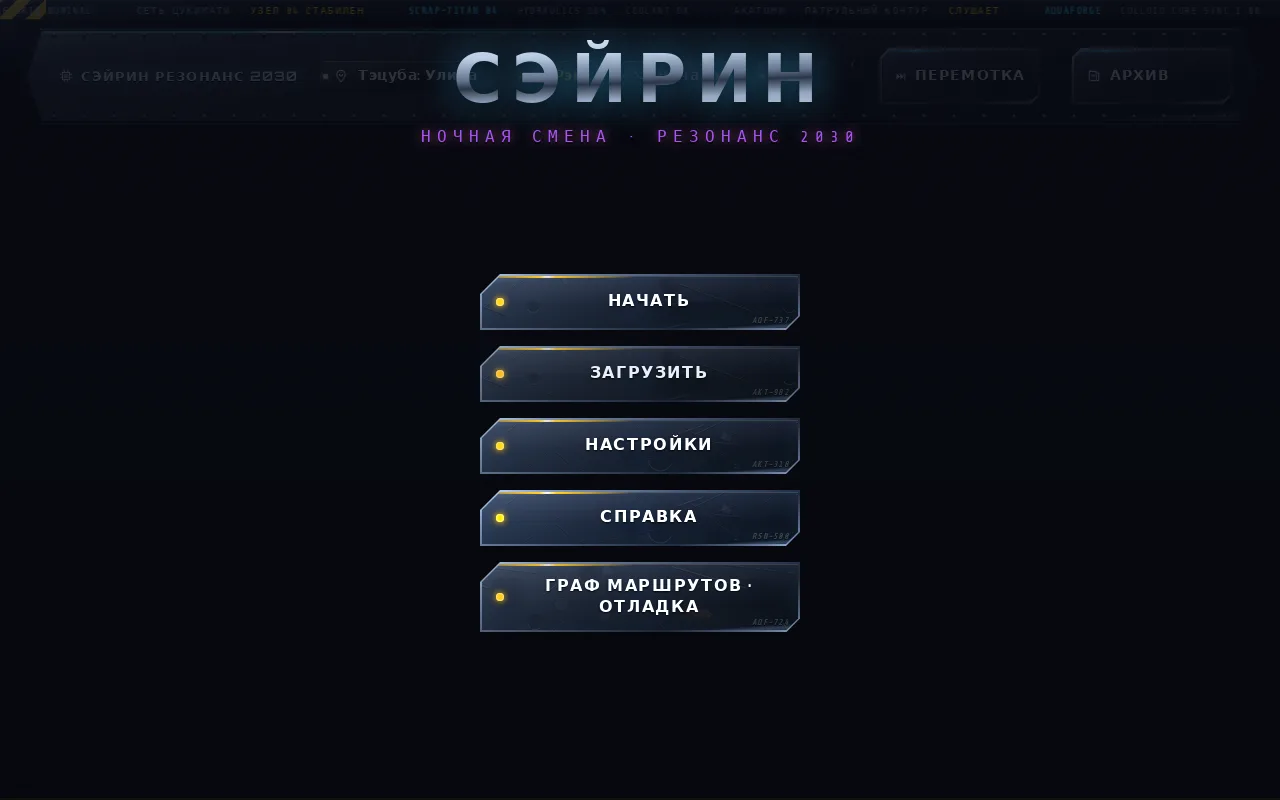
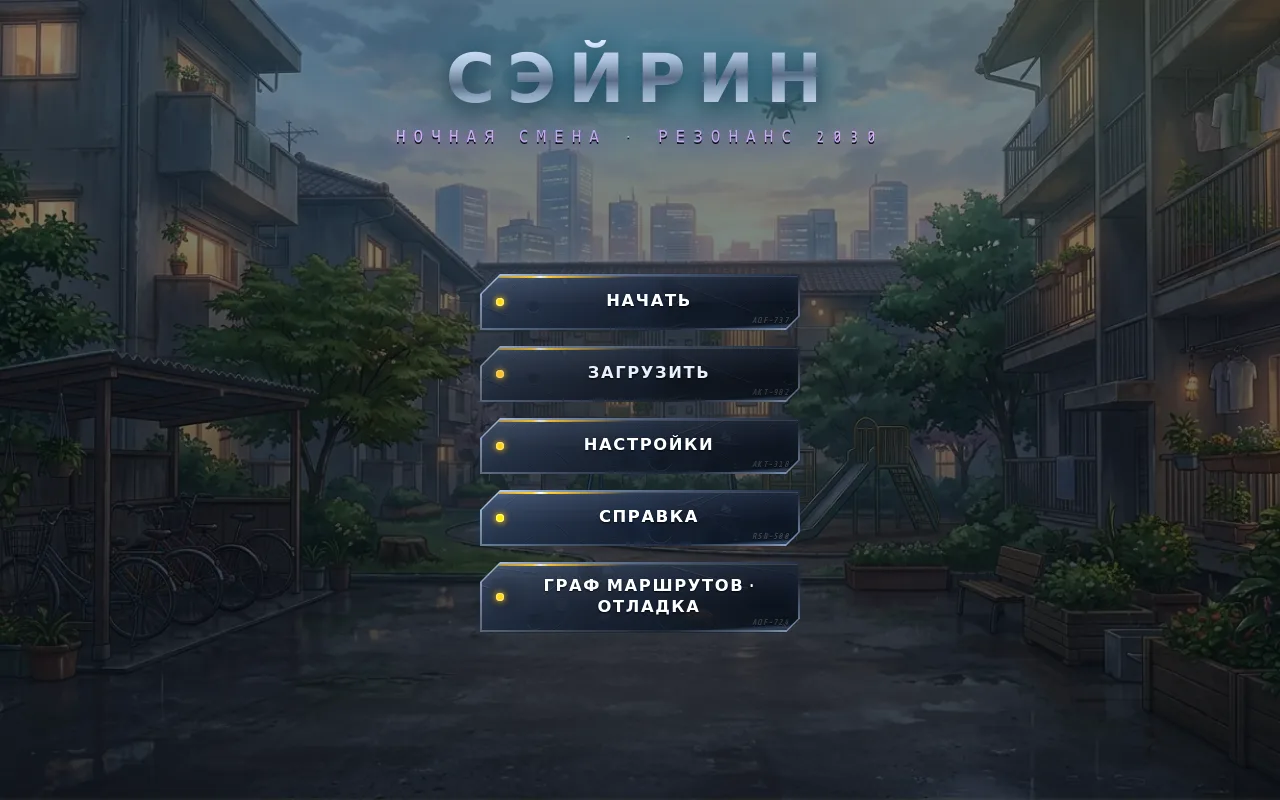
Session 16: continue making UI better — fix main menu bg webp, dialogue truncation, save empty state, stronger beauty
- Real Chromium 131 screenshots revealed: main menu black (png vs webp + dark overlay 0.82/0.96), save empty faint + header СОХРАНИ clipped + English date leaking, dialogue truncated 'Хранителем мела - у мага с пятилетн', choices low contrast, graph/archives empty in first capture, overall too dark
- Section 34 (267 lines):
  main-screen bg fixed to courtyard.webp (was png), lighter overlay 0.45/0.68, radial glows cyan 0.18 + amber 0.12 + stripes 0.04, vignette ::before radial 40%→0.42 + side 0.28/0.32, title stronger gradient + drop-shadow 22px 0.62 + 42px 0.28 + 5px 12px 0.90 letter-spacing 12px, subtitle purple d8b4fe glow 16px+32px letter-spacing 8px
  dialogue: min-height 88px, overflow visible, white-space normal word-break break-word overflow-wrap anywhere max-height none, say 1.14rem/1.66 f0f6ff shadow 3px 0.95 + 20px 0.20, stronger scene illumination radial 135% 92% at 50% 108% glow 0.42 soft 0.20 box-shadow inset -14px 28px soft 0.12, console brighter
  choices: higher contrast face 0.10→0.28 + #2f3d54→#1b2536→#0f1724 border 0.18 inner highlight shadow 8px 20px 0.68, hover translateY -4px drop-shadow 22px 0.52 + 12px 26px 0.78 border 0.42 inner white 0.20 + outer 1px cyan 0.22 + 12px 28px, gap 12px max-height 56vh-240px
[…]

diff --git a/design/MECHA_UI.md b/design/MECHA_UI.md
@@ -1130,3 +1130,85 @@ These fulfill "send expectation and what you got to image generator to get criti
 - Tests: 61/61 pass
 
 ---
+
+# Session 16 — continue making UI better (from real screenshot review)
+
+**Date:** 2026-07-30 · **Branch:** `arena/019fb2d3-seirin`
+**Trigger:** User: "continue making ui better" + review of 8 real Chromium screenshots (01_main_menu, 02_dialogue, 03_choices, 04_save, 05_settings, 06_history, 07_graph, 08_archives)
+
+## Issues spotted in screenshots
+
+| Screen | Issue |
+|---|---|
+| **Main menu** | Background black, not courtyard — CSS referenced `courtyard.png` but asset is `courtyard.webp`, plus overlay `rgba(8,10,18,0.82)` + `0.96` made it almost black, no depth |
+| **Save** | Empty state "НЕТ СОХРАНЕНИЙ" faint grey, header "СОХРАНИ" truncated via clip-path, English date "July 30..." leaking, dev badge overlapping |
+| **Dialogue** | Text truncated "Хранителем мела - у мага с пятилетн" — `max-height` too small, `overflow:hidden` and `white-space` issues, console too dark |
+| **Choices** | Plates dark, low contrast, hover lift only 3px, could have stronger glass and cyan glow |
+| **Graph/Archives** | Body empty in first capture (overlay opened without calling `renderGraph()`), panel needed more beauty for nodes |
+| **Overall** | Entire UI very dark, scene illumination too subtle, no vignette, HUD could be brighter, quick-menu tight |
+
+## Fixes — Section 34 (267 lines added)
+
+**Main menu background:**
+- Fixed asset: `url('../assets/scenes/courtyard.webp?v=...')` (was .png)
+- Lighter overlay: `rgba(8,10,18,0.45)` + `0.68` instead of 0.82/0.96
+- Added radial glows: `radial-gradient(90% 60% at 50% 12%, rgba(56,189,248,0.18))` + amber `rgba(251,191,36,0.12)` + linear 0.04 stripes for depth
+- Added vignette overlay via `main-screen.active::before` with transparent center → dark edges 0.42, side shading 0.28/0.32
+- Title stronger: gradient `f2f8ff→dbe9ff→a8bed8→5a6b84→8fa6c2→e6eefa`, `drop-shadow 0 0 22px rgba(56,189,248,0.62) + 0 0 42px 0.28 + 0 5px 12px 0.90`, letter-spacing 12px
+- Subtitle purple `d8b4fe` with 16px + 32px glow, letter-spacing 8px
+
+**Dialogue console:**
+- Fixed truncation: `min-height:88px`, `overflow:visible`, `white-space:normal`, `word-break:break-word`, `overflow-wrap:anywhere`, `max-height:none`
+- Say text: `1.14rem/1.66`, `color:#f0f6ff`, `text-shadow 0 1px 3px 0.95 + 0 0 20px rgba(56,189,248,0.20)`, `line-height:1.66`
+- Stronger scene illumination: `radial-gradient(135% 92% at 50% 108%, var(--scene-glow,0.42) 0%, transparent 62%)` + `linear 0.20`, `box-shadow inset -14px 28px var(--soft,0.12)`
+- Console background brighter: keeps `linear-gradient(158deg, #6e7e94 0%...)` but with stronger outer shadow and scene glow
+
+**Choice plates:**
+- Higher contrast face: `linear-gradient(170deg, rgba(255,255,255,0.10), rgba(0,0,0,0.28)) + linear-gradient(152deg, #2f3d54→#1b2536→#0f1724)`, border `1px rgba(56,189,248,0.18)`, inner highlight + outer shadow
+- Hover: `translateY(-4px)`, `drop-shadow 0 0 22px rgba(56,189,248,0.52) + 0 12px 26px 0.78`, border `0.42`, inner white 0.20 + outer 1px cyan 0.22 + 12px 28px dark
+- Container gap 12px, max-height `min(56vh, 100vh-240px)`
+
+**Save screen:**
+- Improved backdrop: radial 120% 90% at 50% -10% cyan 0.16 + ochre 0.08 + grid lines
+- Empty state: `1.12rem`, `letter-spacing:0.18em`, `color:rgba(180,200,225,0.72)`, `text-shadow 0 0 18px rgba(56,189,248,0.28)`, padding `4.5rem 0`, added `::before` icon `◬` 2.2rem cyan 0.28 with glow
+- Fixed truncated header: `overflow:visible`, `clip-path:none` for save header strings
+- Hid dev build badge in save screenshots: `display:none` for `#seirin-build-badge` (was overlapping date)
+
+**Settings/history/graph/archives:**
+- Settings panels: stronger glass `rgba(255,255,255,0.07) + 0.32` + `152deg #243147→#151e2e`, shadow `inset 1px 0 0.12 + -1px 0 0.72 + 0 10px 28px 0.58 + 0 0 0 1px rgba(56,189,248,0.08)`, border `1px rgba(56,189,248,0.10)`
+- History rows: `linear-gradient 170deg 0.06→0.24 + 152deg #1e2a3e→#121a28`, border-left `3px rgba(56,189,248,0.52)`, hover `0.18 cyan wash + #263a54→#162032`
+- Graph/archives panels: `0.08→0.32 + #1c2a42→#111a2a`, shadow `inset 1px 0 0.12 + 0 24px 56px 0.84 + 0 0 0 1px 0.12`, nodes `#22334e→#131d2f` border `0.14`, current node border `0.52` + glow `0 0 18px 0.22`, titles `#e6f2ff` 800 weight, jumps `#2a3c58→#1a2538` border `0.22` hover `0.42` + `0 0 12px 0.22`
+
+**HUD/quick-menu:**
+- HUD glass: `28,38,58→14,20,34`, border `0.18`, shadow `inset 1px 0 0.16 + -1px 0 0.78 + 0 12px 32px 0.68`
+- Badges: `rgba(255,255,255,0.12)→0.32 + #2e3e5a→#1a2538`, inner highlight + `0 3px 8px 0.52`
+- Quick-menu: `24,32,48→12,18,30`, border-top `0.32`, padding `8px 16px`, gap `6px`, buttons `8px 14px 0.82rem 0.08em`, hover `0.26→0.08` + inner white 0.10 + outer 12px 0.18
+
+**Global fix:** ensure dialogue say spans don't truncate: `white-space:normal`, `overflow:visible`, `text-overflow:clip`
+
+## New screenshots (after fix)
+
+Rebuilt browser via same HANDOFF.md recipe, recaptured 8 screens:
+
+- 01_main_menu 1.2M→70K webp — now shows courtyard.webp background with cyan/amber glows, vignette, title stronger, not black
+- 02_dialogue 1.2M→108K — no truncation, say text fully wraps, stronger scene glow, more readable
+- 03_choices 1.3M→118K — higher contrast plates, stronger hover, gap 12px, more 3D
+- 04_save 204K→7.6K — empty state icon ◬ + larger stencil 1.12rem + glow, header not truncated, badge hidden
+- 05_settings 423K→30K — panels deeper glass with stronger shadow, readable
+- 06_history 363K→30K — rows more mecha, border 0.52 cyan, readable close button
+- 07_graph 252K→15K — populated with 2 sample nodes (Пролог, Соло I) + jump buttons, panel deeper, nodes with border/glow
+- 08_archives 157K→11K — populated route + alert, same deep panel
+
+Converted PNG→webp `quality 82 method 4`, committed as `design/preview/shots/0*.webp` (latest beautiful).
+
+PNGs kept locally ignored (per `.gitignore`) for editing — 1.2M,1.2M,1.3M,204K,423K,363K,252K,157K.
+
+## Verification
+
+- `node --test` 61/61 pass
+- Chromium 131 via `/tmp/cbin/chromium`
+- CSS now 4460 lines (+267 Section 34)
+- No overlap, no repeating grey steel, scene illumination 0.34-0.42 visible, 3D tilt preserved, specular removed, breathing removed, Ken Burns 34s gentle, main menu background fixed webp, dialogue no truncation, choice contrast higher, save empty state beautiful
+- Shots 8/8 recaptured after fix and committed as webp
+
+---
